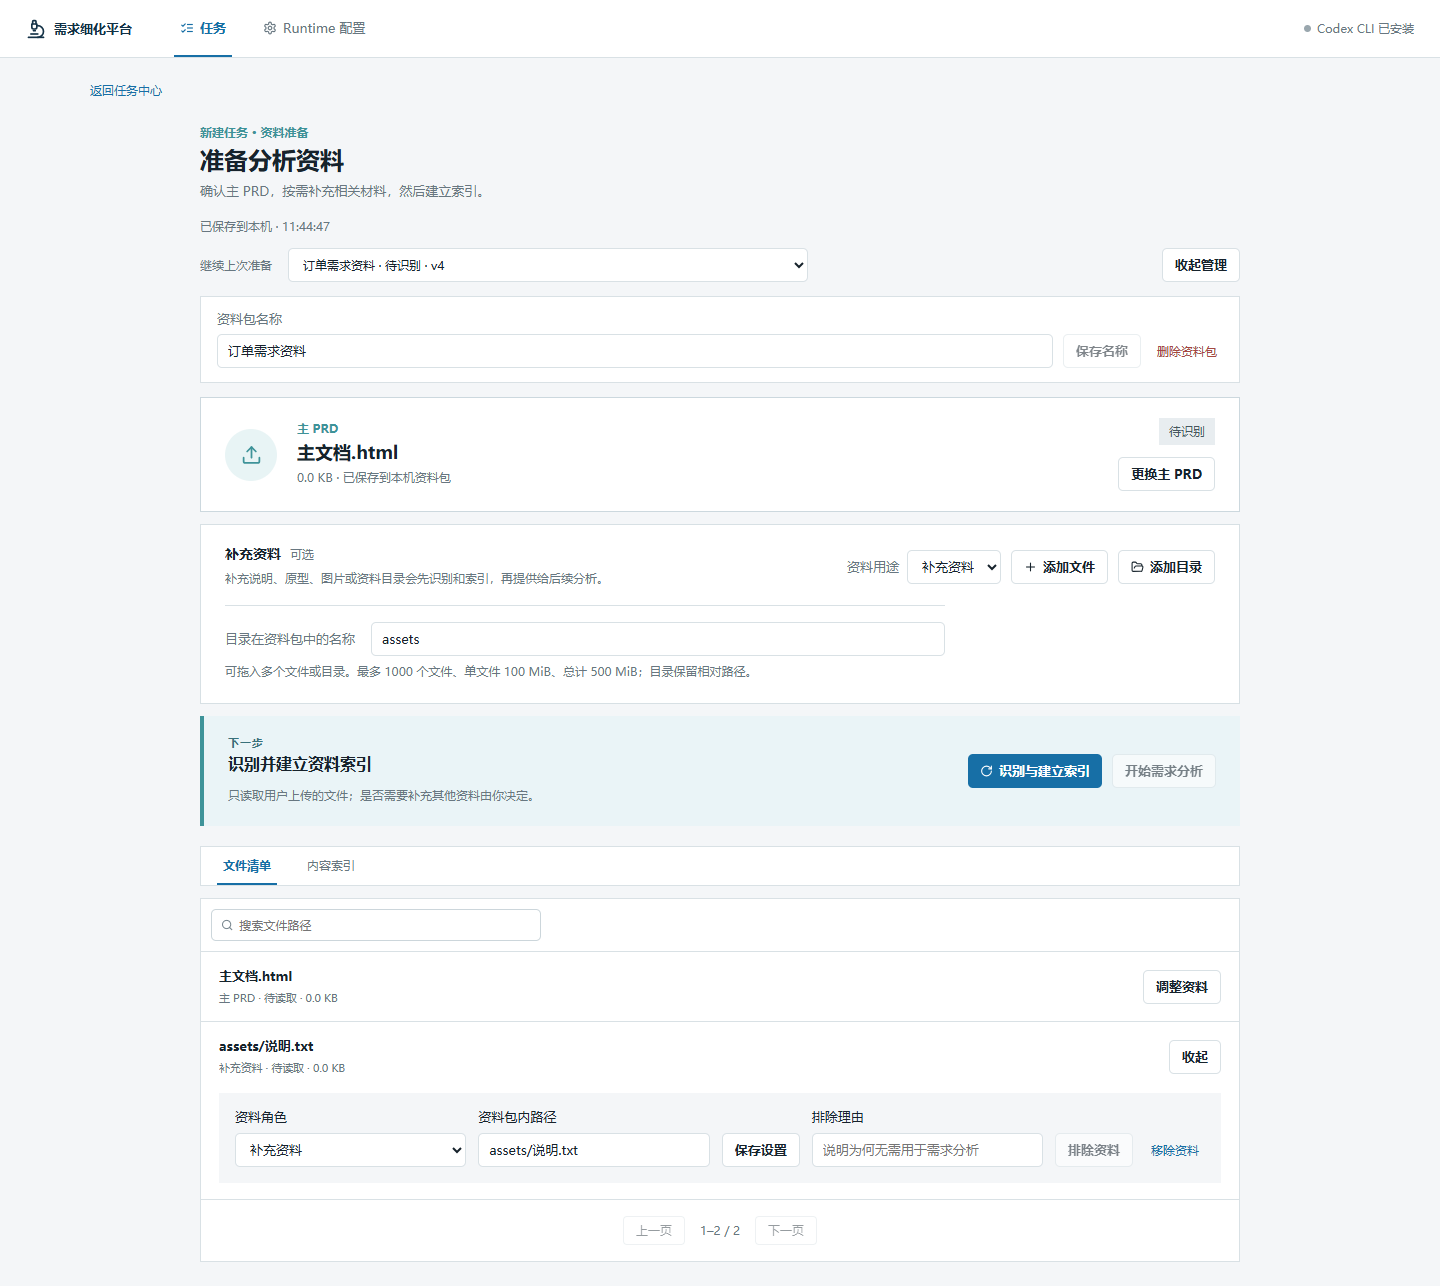
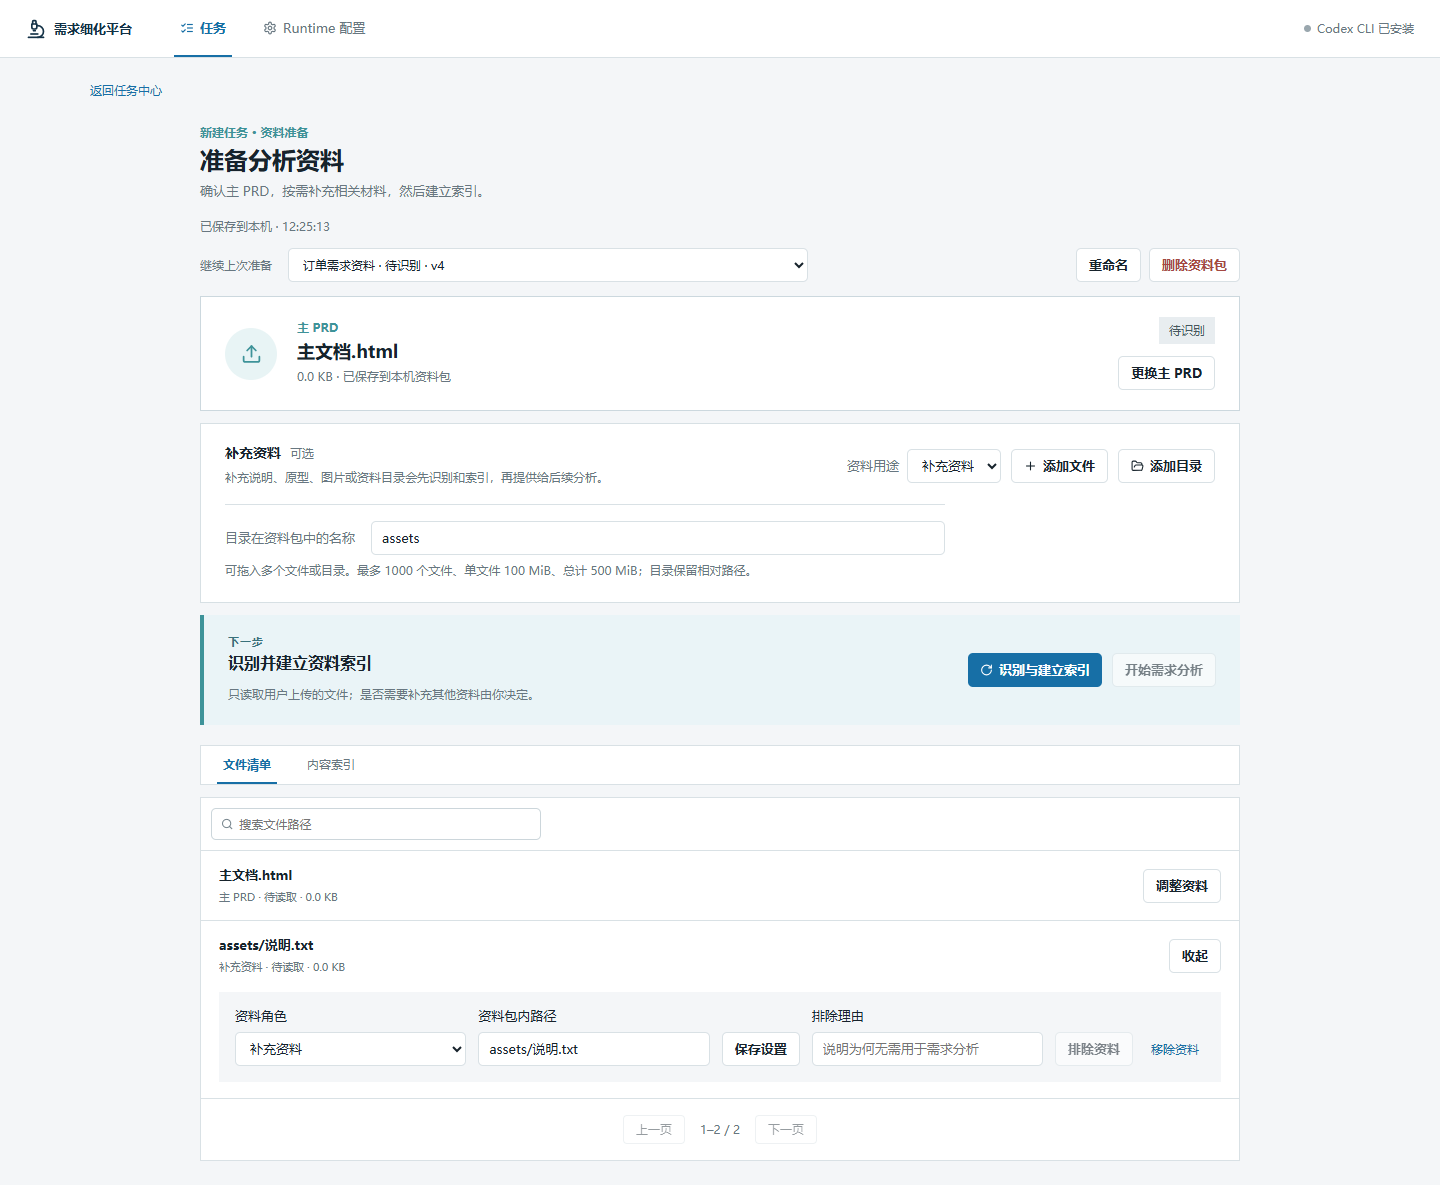
refactor: 提升资料包管理操作

diff --git a/src/MaterialWorkspace.tsx b/src/MaterialWorkspace.tsx
@@ -18,7 +18,7 @@ export function MaterialWorkspace({ onStart, onBack }: { onStart: (project: PrdP
   const [query, setQuery] = useState(''), [queryFile, setQueryFile] = useState(''), [offset, setOffset] = useState(0);
   const [result, setResult] = useState<MaterialSearchResult>(), [searching, setSearching] = useState(false), [source, setSource] = useState<SourceUnit>();
   const [issuesExpanded, setIssuesExpanded] = useState(false);
-  const [managingBundle, setManagingBundle] = useState(false), [bundleName, setBundleName] = useState(''), [confirmDelete, setConfirmDelete] = useState(false);
+  const [renamingBundle, setRenamingBundle] = useState(false), [bundleName, setBundleName] = useState(''), [confirmDelete, setConfirmDelete] = useState(false);
   useEffect(() => setIssuesExpanded(false), [bundle?.id, bundle?.revision]);
   const generation = useRef(0), lock = useRef(false), currentId = useRef(''), mounted = useRef(true), depth = useRef(0), searchGeneration = useRef(0);
   const locked = !!busy || bundle?.state === 'indexing';
@@ -34,7 +34,7 @@ export function MaterialWorkspace({ onStart, onBack }: { onStart: (project: PrdP
     if (!api || !bundle || busy !== '添加并保存资料') return; const token = ++generation.current; setBusy('正在取消添加');
     try { const next = await api.cancel(bundle.id); if (mounted.current && token === generation.current) { accept(next); setSaved('已取消添加，保留已保存资料'); } } catch(e) { if (mounted.current) setError(message(e)); } finally { if (token === generation.current) { lock.current = false; if (mounted.current) setBusy(''); } }
   }
-  async function select(id: string) { if (!api || lock.current) return; setSource(undefined); setEditing(undefined); setResult(undefined); setOffset(0); setQueryFile(''); setFilePage(0); setManagingBundle(false); setConfirmDelete(false); await run('读取资料包', () => api.get(id)); }
+  async function select(id: string) { if (!api || lock.current) return; setSource(undefined); setEditing(undefined); setResult(undefined); setOffset(0); setQueryFile(''); setFilePage(0); setRenamingBundle(false); setConfirmDelete(false); await run('读取资料包', () => api.get(id)); }
   useEffect(() => {
     if (!api || bundle?.state !== 'indexing') return;
     let alive = true, pending = false; const id = bundle.id;
@@ -67,7 +67,7 @@ export function MaterialWorkspace({ onStart, onBack }: { onStart: (project: PrdP
   }
   async function deleteBundle() {
     if (!api || !bundle || lock.current) return; const id=bundle.id,token=++generation.current;lock.current=true;setBusy('删除资料包');setError('');setSaved('');
-    try { await api.deleteBundle(id); if(mounted.current&&token===generation.current){setBundles(all=>all.filter(item=>item.id!==id));setBundle(undefined);currentId.current='';setManagingBundle(false);setConfirmDelete(false);setSaved('资料包已删除');} }
+    try { await api.deleteBundle(id); if(mounted.current&&token===generation.current){setBundles(all=>all.filter(item=>item.id!==id));setBundle(undefined);currentId.current='';setRenamingBundle(false);setConfirmDelete(false);setSaved('资料包已删除');} }
     catch(e){if(mounted.current&&token===generation.current)setError(message(e));}
     finally{if(token===generation.current){lock.current=false;if(mounted.current)setBusy('');}}
   }
@@ -84,7 +84,7 @@ export function MaterialWorkspace({ onStart, onBack }: { onStart: (project: PrdP
     {(busy || dragging || bundle || saved) && <div className="material-feedback" role="status" aria-live="polite"><span>{busy || (dragging ? `松开添加为${bundle ? roles[role] : '主 PRD'}` : saved || '文件与修改保存在本机，可离开后继续准备。')}</span>{busy==='添加并保存资料'&&<button className="secondary" onClick={()=>void cancelAddition()}>取消添加</button>}{busy && <RotateCw className="runtime-spinner"/>}</div>}
     {error && <div className="material-error" role="alert">{error}<button className="secondary" disabled={!!busy} onClick={() => bundle ? void select(bundle.id) : api && void api.list().then(setBundles).catch(e=>setError(message(e)))}>刷新资料</button></div>}
     {!api ? <div className="panel">资料导入需要在桌面应用中使用。</div> : <>
-      {bundles.length > 0 && <><div className="bundle-select-row"><label className="bundle-select">继续上次准备<select aria-label="已有资料包" disabled={!!busy} value={bundle?.id ?? ''} onChange={e => void select(e.target.value)}><option value="">选择已有资料</option>{bundles.map(item => <option key={item.id} value={item.id}>{item.name || item.id} · {states[item.state]} · v{item.revision}</option>)}</select></label>{bundle&&<button className="secondary" disabled={locked} aria-expanded={managingBundle} onClick={()=>{setBundleName(bundle.name);setManagingBundle(value=>!value);setConfirmDelete(false)}}>{managingBundle?'收起管理':'管理资料包'}</button>}</div>{bundle&&managingBundle&&<section className="bundle-manager" aria-label="资料包管理"><label>资料包名称<input aria-label="资料包名称" maxLength={100} disabled={locked} value={bundleName} onChange={e=>setBundleName(e.target.value)}/></label><button className="secondary" disabled={locked||!bundleName.trim()||bundleName.trim()===bundle.name} onClick={()=>void run('重命名资料包',()=>api.renameBundle(bundle.id,bundleName.trim()))}>保存名称</button><button className="text-action danger-text" disabled={locked} onClick={()=>setConfirmDelete(value=>!value)}>删除资料包</button>{confirmDelete&&<div className="bundle-delete-confirm" role="alert"><span>将永久删除“{bundle.name}”及其中 {bundle.files.length} 个文件和索引；原始磁盘文件不受影响。</span><button className="secondary" disabled={locked} onClick={()=>setConfirmDelete(false)}>取消</button><button className="danger" disabled={locked} onClick={()=>void deleteBundle()}>确认删除资料包</button></div>}</section>}</>}
+      {bundles.length > 0 && <><div className="bundle-select-row"><label className="bundle-select">继续上次准备<select aria-label="已有资料包" disabled={!!busy} value={bundle?.id ?? ''} onChange={e => void select(e.target.value)}><option value="">选择已有资料</option>{bundles.map(item => <option key={item.id} value={item.id}>{item.name || item.id} · {states[item.state]} · v{item.revision}</option>)}</select></label>{bundle&&<div className="bundle-quick-actions"><button className="secondary" disabled={locked} aria-expanded={renamingBundle} onClick={()=>{setBundleName(bundle.name);setRenamingBundle(value=>!value);setConfirmDelete(false)}}>重命名</button><button className="secondary danger-text" disabled={locked} aria-expanded={confirmDelete} onClick={()=>{setConfirmDelete(value=>!value);setRenamingBundle(false)}}>删除资料包</button></div>}</div>{bundle&&(renamingBundle||confirmDelete)&&<section className="bundle-manager" aria-label="资料包管理">{renamingBundle&&<><label>资料包名称<input aria-label="资料包名称" maxLength={100} disabled={locked} value={bundleName} onChange={e=>setBundleName(e.target.value)}/></label><button className="secondary" disabled={locked||!bundleName.trim()||bundleName.trim()===bundle.name} onClick={()=>void run('重命名资料包',()=>api.renameBundle(bundle.id,bundleName.trim()))}>保存名称</button><button className="text-action" disabled={locked} onClick={()=>setRenamingBundle(false)}>取消</button></>}{confirmDelete&&<div className="bundle-delete-confirm" role="alert"><span>将永久删除“{bundle.name}”及其中 {bundle.files.length} 个文件和索引；原始磁盘文件不受影响。</span><button className="secondary" disabled={locked} onClick={()=>setConfirmDelete(false)}>取消</button><button className="danger" disabled={locked} onClick={()=>void deleteBundle()}>确认删除资料包</button></div>}</section>}</>}
       {!bundle ? <section className="material-intake-card"><div className="upload-mark"><Upload/></div><h2>选择主 PRD 文件</h2><p>支持 HTML、DOC、DOCX、PDF、Markdown 和 TXT</p><button className="primary" disabled={!!busy} onClick={() => void add('files', undefined, true)}>选择 PRD 文件</button><small>也可以把文件直接拖到这里</small></section> : <>
         <section className="material-intake-card material-intake-selected"><div className="upload-mark"><Upload/></div><div className="material-primary-copy"><span>主 PRD</span><h2>{primary[0]?.logicalPath ?? '尚未选择主 PRD'}</h2><p>{primary.length ? `${(primary[0].size / 1024).toFixed(1)} KB · 已保存到本机资料包` : '主 PRD 用于确定本次需求分析范围'}</p></div><div className="material-primary-actions"><span className={`material-state ${bundle.state}`}>{states[bundle.state]}</span><button className="secondary" disabled={locked} onClick={() => void add('files', undefined, true)}>{primary.length ? '更换主 PRD' : '选择 PRD 文件'}</button></div></section>
         <section className="material-supplements"><header><div><h2>补充资料 <small>可选</small></h2><p>补充说明、原型、图片或资料目录会先识别和索引，再提供给后续分析。</p></div><div className="material-actions"><label>资料用途<select disabled={locked} value={role} onChange={e => setRole(e.target.value as MaterialRole)}><option value="supplement">补充资料</option><option value="historical">历史参考</option></select></label><button className="secondary" disabled={locked} onClick={() => void add('files')}><Plus/>添加文件</button><button className="secondary" disabled={locked} onClick={() => void add('directory')}><FolderOpen/>添加目录</button></div></header><label className="mount-label">目录在资料包中的名称<input disabled={locked} value={mount} onChange={e => setMount(e.target.value)} placeholder="默认使用所选目录名，例如 assets"/></label><p>可拖入多个文件或目录。最多 1000 个文件、单文件 100 MiB、总计 500 MiB；目录保留相对路径。</p></section>

diff --git a/src/styles.css b/src/styles.css
@@ -15,5 +15,7 @@
 
 .bundle-select-row{display:flex;align-items:center;gap:10px;max-width:680px;margin:0 auto 14px;font-size:12px;color:var(--muted)}.bundle-select-row .bundle-select{flex:1;margin:0}.bundle-select-row .bundle-select select{max-width:430px}.bundle-manager{max-width:680px;margin:0 auto 14px;display:flex;align-items:end;gap:10px;flex-wrap:wrap;background:#fff;border:1px solid var(--line);padding:14px 16px}.bundle-manager>label{display:flex;flex-direction:column;gap:7px;flex:1;min-width:260px;color:var(--muted)}.bundle-manager .text-action{height:34px;margin:0}.danger-text{color:#a44842}.danger{height:34px;border:0;border-radius:5px;padding:0 12px;background:#a44842;color:#fff;font-weight:700;cursor:pointer}.bundle-delete-confirm{flex-basis:100%;display:flex;align-items:center;gap:10px;border-top:1px solid var(--line);padding-top:12px}.bundle-delete-confirm span{flex:1;overflow-wrap:anywhere}.material-page-heading.is-compact~.bundle-select-row,.material-page-heading.is-compact~.bundle-manager{max-width:1040px}.material-page-heading.is-compact~.bundle-select-row .bundle-select select{max-width:520px}@media(max-width:900px){.bundle-select-row{max-width:none;align-items:stretch;flex-direction:column}.bundle-select-row>.secondary{align-self:flex-end}.bundle-manager{max-width:none}.bundle-delete-confirm{align-items:stretch;flex-direction:column}.bundle-delete-confirm span{width:100%}}
 
+.bundle-quick-actions{display:flex;gap:8px;flex-shrink:0}@media(max-width:900px){.bundle-quick-actions{align-self:flex-end}}
+
 /* 任务中心：以任务身份为主轴，运行元数据保持稳定列宽与舒适行距。 */
 .task-collection .thead,.task-collection .task-row{grid-template-columns:minmax(360px,1.7fr) 86px 132px minmax(128px,.8fr) 94px 82px 34px;gap:18px;padding-left:20px;padding-right:20px}.task-collection .thead{height:38px}.task-collection .task-row{min-height:84px;transition:background-color .15s,box-shadow .15s}.task-collection .task-row:hover{box-shadow:inset 3px 0 var(--cyan)}.task-collection .task-row:focus-visible{position:relative;z-index:1;outline:2px solid #65a8ce;outline-offset:-2px}.task-collection .task-row>span.task-identity{min-width:0;display:flex;flex-direction:column;gap:8px}.task-primary-line{display:flex;align-items:baseline;gap:12px;min-width:0}.task-primary-line strong{margin:0;overflow:hidden;text-overflow:ellipsis;white-space:nowrap;font-size:14px;line-height:1.45;color:var(--ink)}.task-collection .task-row>span.task-identity small{display:flex;align-items:center;gap:6px;min-width:0;overflow:hidden;text-overflow:ellipsis;white-space:nowrap}.task-identity small svg{width:13px;height:13px;flex:none;color:#82919a}.task-collection .task-stage{line-height:1.5;color:#52636d}.task-time{white-space:nowrap}.task-collection .task-status{font-weight:600;padding:5px 8px}.task-collection .mini-progress{height:20px;overflow:hidden;background:#e9eef1}.task-collection .mini-progress i{background:#79b4bd}.task-collection .task-open{width:30px;height:30px;display:grid;place-items:center;color:#71808a;transition:color .15s,transform .15s}.task-open svg{width:15px}.task-collection .task-row:hover .task-open{color:var(--blue);transform:translateX(2px)}.task-empty{min-height:230px;display:flex;flex-direction:column;align-items:center;justify-content:center;text-align:center;color:var(--muted);gap:9px}.task-empty>svg{width:28px;color:var(--cyan);margin-bottom:3px}.task-empty strong{font-size:14px;color:var(--ink)}.task-empty>span{font-size:12px}.task-empty .secondary{margin-top:8px}@media(max-width:1180px){.task-collection .thead,.task-collection .task-row{grid-template-columns:minmax(300px,1.6fr) 78px 110px minmax(112px,.7fr) 82px 72px 30px;gap:12px;padding-left:16px;padding-right:16px}}

diff --git a/UX-CONTRACT.md b/UX-CONTRACT.md
@@ -76,7 +76,7 @@
 - 新建任务首先显示原上传页式的单一主 PRD 选择卡片；首次选择时在后台创建资料包，不增加“先新建资料包”的前置步骤。主 PRD 保存成功后才展示补充资料、索引和来源管理。
 - 选择一个主 PRD，补充文件可标记补充资料或历史参考；目录添加前可指定挂载路径，留空使用目录名，添加后可调整文件逻辑路径。
 - 原生 select/input 沿用 Runtime 设置页控件；保存需要显式点击，成功由 IPC 返回后显示。输入失败保留当前编辑值；移除有内联确认，原始文件不删除。
-- “管理资料包”只在选中已有资料包后出现。重命名不改变内容 revision 或已完成索引；删除资料包必须内联二次确认，清理保存的快照、索引和缓存并返回主 PRD 选择态，原始磁盘文件和既有任务固定输入不删除。资料索引处理中禁止重命名与删除。
+- 选中已有资料包后，“重命名”和“删除资料包”直接显示在恢复选择器旁。重命名不改变内容 revision 或已完成索引；删除资料包必须内联二次确认，清理保存的快照、索引和缓存并返回主 PRD 选择态，原始磁盘文件和既有任务固定输入不删除。资料索引处理中禁止重命名与删除。
 - 文件每页 20 项，内容索引每页 25 项。搜索明确显示结果总量和分页，来源全文按 ID 读取。
 - 草稿可从本页选择恢复；索引进行中每秒读取实际进度，离开页面不取消后台任务。取消按钮明确结束索引；错误保留资料并可刷新重试。
 - 写操作加同步锁，阻止重复点击；请求代次与当前资料 ID 防止迟到结果覆盖。索引期间禁止改输入，取消完成后允许继续添加资料。

diff --git a/DESIGN.md b/DESIGN.md
@@ -80,6 +80,6 @@ components:
 
 新建任务由 `src/MaterialWorkspace.tsx` 统一承接。入口沿用原 PRD 上传页的居中单卡片：首要动作始终是“选择 PRD 文件”，不要求用户先理解资料包、版本或索引。选择主 PRD 后，再渐进展开补充文件、目录和识别；高密度清单仅在已有材料时出现。索引进度只显示实际完成文件数，按钮和固定反馈区明确区分保存、索引与创建任务。
 
-已有资料包的低频管理动作收在恢复选择器旁的“管理资料包”内。重命名显式保存；整体删除使用页面内二次确认，并在确认文案中说明删除范围和原始文件不受影响。资料处理中禁用这两个动作。
+已有资料包的“重命名”和“删除资料包”直接显示在恢复选择器旁，不再经过通用管理入口。重命名显式保存；整体删除使用页面内二次确认，并在确认文案中说明删除范围和原始文件不受影响。资料处理中禁用这两个动作。
 
 选中主 PRD 后切换为左对齐的资料准备工作态，内容宽度统一为 1040px。视觉顺序固定为主 PRD 身份、可选补充资料、当前下一步和资料明细。当前可执行步骤使用唯一主按钮；尚不可执行的后续分析保持次要层级。系统只读取用户上传的文件，不显示或判断缺件。
